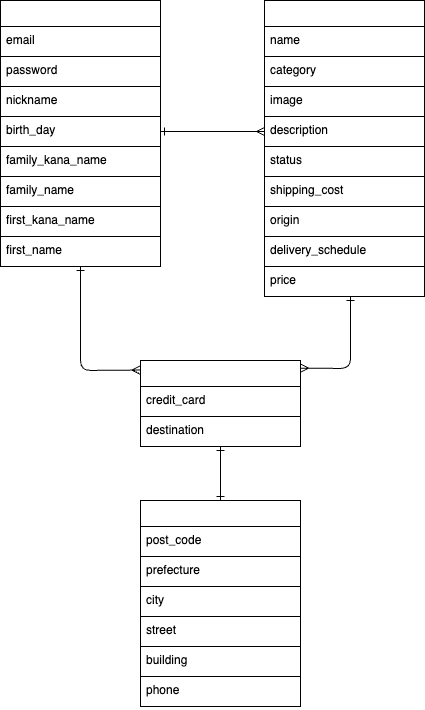
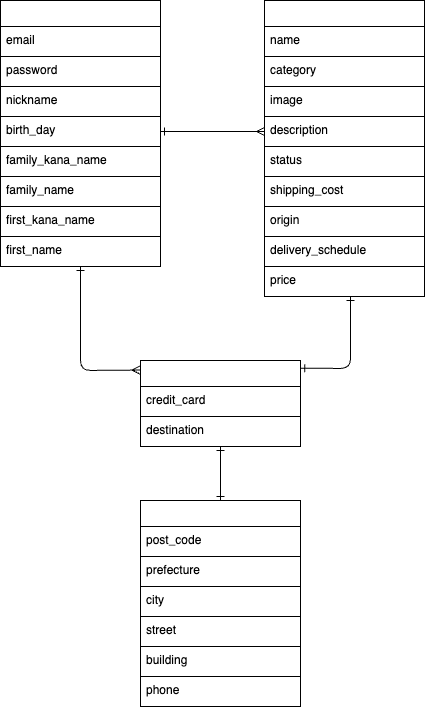
ER図とREADMEの修正-2

diff --git a/README.md b/README.md
@@ -11,7 +11,6 @@
 | first_kana_name     | string    | null:false               |
 | family_kana_name    | string    | null:false               |
 | birth_day           | date      | null:false               |
-| item                | reference | null:false, foreign_key  |
 
 
 ###Association
@@ -30,18 +29,18 @@ has_many :items
 | prefecture_id       | integer   | null:false              |
 | delivery_schedule_id| integer   | null:false              |
 | price               | string    | null:false              |
-| user                | reference | null:false, foreign_key |
+| user                | references| null:false, foreign_key |
 
 ###Association
-has_many :purchases
+has_one :purchase
 belongs_to :user
 
 
 ##purchasesテーブル
 | Column              | Type      | Options                  |
 |---------------------|-----------|--------------------------|
-| item                | reference | null:false, foreign_key  |
-| user                | reference | null:false, foreign_key  |
+| item                | references| null:false, foreign_key  |
+| user                | references| null:false, foreign_key  |
 
 ###Association
 has_one :destination
@@ -52,12 +51,13 @@ belongs_to :user
 ##destinationsテーブル
 | Column              | Type      | Options                  |
 |---------------------|-----------|--------------------------|
-| post_code           | integer   | null:false               |
+| post_code           | string    | null:false               |
 | prefecture_id       | integer   | null:false               |
 | city                | string    | null:false               |
 | street              | string    | null:false               |
 | building            | string    | null:false               |
-| phone               | integer   | null:false               |
+| phone               | string    | null:false               |
+| purchase            | references| null:false, foreign_key  |
 
 ###Association
 belongs_to :purchase
